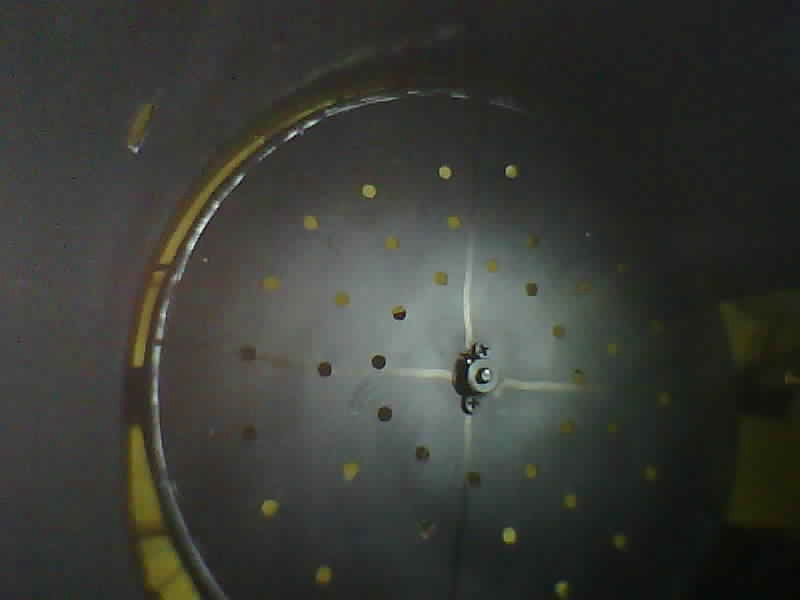
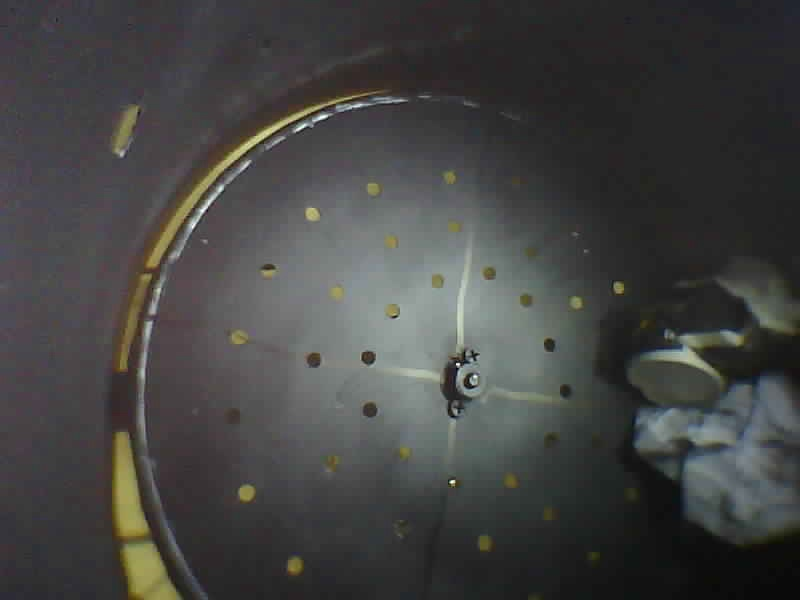
Update the 2nd layer and add test.py for angle of rotation at 4 time with robotic hand and final code of 2nd layer!!

diff --git a/test.py b/test.py
@@ -64,24 +64,44 @@ def detect_objects(frame):
     print(f"📂 Detection result saved as '{result_filename}'.")
     return detected_objects
 
-def main():
-    """Main loop to detect objects at a fixed 0° angle and activate robotic hand if needed."""
-    print(f"\n🔄 --- Moving Plate to {rotation_angle}° ---")
-    send_command(f"ROTATE:{rotation_angle}")  # Command to rotate plate to 0°
-    time.sleep(3)  # Wait for plate to move
-
-    print("\n📸 --- Capturing Image ---")
+def check_bucket():
+    """Check if there are objects in the bucket after processing."""
+    print("\n📸 --- Checking Bucket for Remaining Objects ---")
     frame = capture_image()
     if frame is None:
-        return  # Exit if image capture fails
-
-    print("\n🔍 --- Running Object Detection ---")
+        return False  # If capture fails, assume bucket is empty
+    
     detected_objects = detect_objects(frame)
-
     if detected_objects:
-        print("\n🤖 --- Activating Robotic Hand ---")
-        send_command("MOVE")  # Trigger robotic hand
-        time.sleep(3)  # Allow time for hand movement
+        print("🛑 Objects still in the bucket! Restarting process...")
+        return True
+    else:
+        print("✅ Bucket is empty. Process complete!")
+        return False
+
+def main():
+    """Main loop to detect objects at a fixed 0° angle and activate robotic hand if needed."""
+    while True:
+        print(f"\n🔄 --- Moving Plate to {rotation_angle}° ---")
+        send_command(f"ROTATE:{rotation_angle}")  # Command to rotate plate to 0°
+        time.sleep(3)  # Wait for plate to move
+
+        print("\n📸 --- Capturing Image ---")
+        frame = capture_image()
+        if frame is None:
+            return  # Exit if image capture fails
+
+        print("\n🔍 --- Running Object Detection ---")
+        detected_objects = detect_objects(frame)
+
+        if detected_objects:
+            print("\n🤖 --- Activating Robotic Hand ---")
+            send_command("MOVE")  # Trigger robotic hand
+            time.sleep(3)  # Allow time for hand movement
+
+        # Check if the bucket has objects remaining
+        if not check_bucket():
+            break  # Exit loop if bucket is empty
 
     print("✅ Process Completed Successfully!")
 
